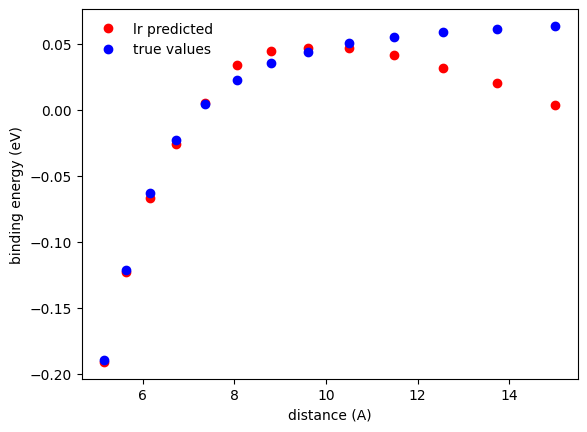
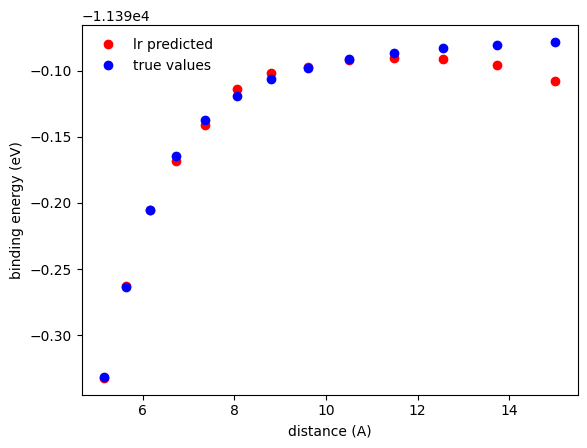
changes for linear readout and prints

diff --git a/mace/mace/modules/ewald_mace.py b/mace/mace/modules/ewald_mace.py
@@ -82,23 +82,22 @@ class EwaldPotential(nn.Module):
 
             real_attention_weights = torch.real(attention_weights)
             # attention_weights = attention_weights / torch.sqrt(torch.tensor(k_pot.shape[1], dtype=torch.float))
-            print("i:", i, "torch.isfinite(attention_weights).all():", torch.isfinite(attention_weights).all(), "torch.isnan(attention_weights).any():", torch.isnan(attention_weights).all(), "min. {:.5f}, max. {:.5f}".format(attention_weights.real.min(), attention_weights.real.max()))
-            
-            attention_weights = torch.softmax(torch.real(attention_weights), dim=1)
-            # attention_weights = attention_weights.unsqueeze(-1)
-            # value_expanded = v_pot.unsqueeze(0)
-            # print("expanded vectors:", attention_weights.shape, value_expanded.shape)
-            # weighted_values = torch.sum(attention_weights * value_expanded, dim=1)
-            weighted_values = attention_weights[:, :, None] * v_pot[None, :, :]
+            print("i:", i, "torch.isfinite(attention_weights).all():", torch.isfinite(attention_weights).all(), "torch.isnan(attention_weights).any():", 
+            torch.isnan(attention_weights).all(), "min. {:.5f}, max. {:.5f}".format(attention_weights.real.min(), attention_weights.real.max()))
+
+            max_values, _ = torch.max(real_attention_weights, dim=-1, keepdim=True)
+            shifted_attention_weights = real_attention_weights - max_values
+
+            softmax_attention_weights = torch.softmax(shifted_attention_weights, dim=-1)
+            print("i:", i, "torch.isfinite(softmax_attention_weights).all():", torch.isfinite(softmax_attention_weights).all(), "torch.isnan(softmax_attention_weights).any():", torch.isnan(softmax_attention_weights).all(), "min. {:.5f}, max. {:.5f}".format(softmax_attention_weights.real.min(), softmax_attention_weights.real.max()))
+            print("attention_weights after softmax:", attention_weights.shape, max_values.shape, shifted_attention_weights.shape)
+
+            weighted_values = softmax_attention_weights[:, :, None] * v_pot[None, :, :]
             print("weighted_values:", weighted_values.shape)
             print("i:", i, "torch.isfinite(weighted_values).all():", torch.isfinite(weighted_values).all(), "torch.isnan(weighted_values).any():", torch.isnan(weighted_values).all(), "min. {:.5f}, max. {:.5f}".format(weighted_values.real.min(), weighted_values.real.max()))
             real_space_weighted_values = self.compute_inverse_transform_optimized(r[mask], weighted_values, box[i])
             print("i:", i, "torch.isfinite(real_space_weighted_values).all():", torch.isfinite(real_space_weighted_values).all(), "torch.isnan(real_space_weighted_values).any():", torch.isnan(real_space_weighted_values).all(), "min. {:.5f}, max. {:.5f}".format(real_space_weighted_values.real.min(), real_space_weighted_values.real.max()))
-            # for inver_ind in range(weighted_values.shape[0]):
-                # real_space_weighted_values = self.compute_inverse_transform_optimized(r[mask][inver_ind], weighted_values[inver_ind], box[i])
-                # real_space_weighted_values = self.compute_inverse_transform(r[mask][inver_ind], weighted_values[inver_ind], box[i])
-            # attention_list = torch.stack(attention_list)
-            # attention_list = torch.transpose(attention_list, 0, 1)
+
             print("node_feats_list:", weighted_values.shape, real_space_weighted_values.shape)
             results.append(torch.real(real_space_weighted_values))
 
@@ -107,9 +106,6 @@ class EwaldPotential(nn.Module):
         return results
 
     def compute_potential(self, r_raw, q, box, value):
-        print("i:", i, "torch.isfinite(attention_weights).all():", torch.isfinite(attention_weights).all(), "torch.isnan(attention_weights).any():", torch.isnan(attention_weights).all(), "min. {:.5f}, max. {:.5f}".format(attention_weights.real.min(), attention_weights.real.max()))
-
-        """ Compute the Ewald long-range potential for one configuration """
         dtype = torch.complex64 if r_raw.dtype == torch.float32 else torch.complex128
         device = r_raw.device
 

diff --git a/mace/mace/modules/models.py b/mace/mace/modules/models.py
@@ -459,37 +459,13 @@ class MACE(torch.nn.Module):
 
             # if i == num_interactions - 2:
             print("in the linear readout block", hidden_irreps_out, MLP_irreps, len(heads))
-            self.ewald_nonlinear_readout = NonLinearReadoutBlock(
-                            hidden_irreps_out,
-                            o3.Irreps("256x0e"),
-                            gate,
-                            o3.Irreps("256x0e"), #change size of head 
-                            len(heads),
-                        )
+            self.ewald_readout = LinearReadoutBlock(o3.Irreps("256x0e"), o3.Irreps("256x0e"))     
             
-            self.q_nonlinear_readout = NonLinearReadoutBlock(
-                            o3.Irreps("256x0e"),
-                            (len(heads) * MLP_irreps).simplify(),
-                            gate,
-                            o3.Irreps("256x0e"), #change size of head 
-                            len(heads),
-                        )
+            self.q_readout = LinearReadoutBlock(o3.Irreps("256x0e"), o3.Irreps("256x0e"))     
 
-            self.v_nonlinear_readout = NonLinearReadoutBlock(
-                            o3.Irreps("256x0e"),
-                            (len(heads) * MLP_irreps).simplify(),
-                            gate,
-                            o3.Irreps("256x0e"), #change size of head 
-                            len(heads),
-                        )
+            self.v_readout = LinearReadoutBlock(o3.Irreps("256x0e"), o3.Irreps("256x0e"))     
 
-            self.k_nonlinear_readout = NonLinearReadoutBlock(
-                            o3.Irreps("256x0e"),
-                            (len(heads) * MLP_irreps).simplify(),
-                            gate,
-                            o3.Irreps("256x0e"), #change size of head 
-                            len(heads),
-                        )       
+            self.k_readout = LinearReadoutBlock(o3.Irreps("256x0e"), o3.Irreps("256x0e"))     
            
         self.ewald_potential = EwaldPotential()
 
@@ -608,16 +584,16 @@ class MACE(torch.nn.Module):
         node_feats_out = torch.cat(node_feats_list, dim=-1)
         logging.info(f"node_feats_out:{node_feats.shape}, {node_feats_out[-1].shape}, {len(node_feats_out)}")
         
-        linear_node_feats = self.ewald_nonlinear_readout(node_feats)
+        linear_node_feats = self.ewald_readout(node_feats)
         logging.info(f"linear_node_feats: {linear_node_feats.shape}")
         
-        q_node_feats = self.q_nonlinear_readout(linear_node_feats)
+        q_node_feats = self.q_readout(linear_node_feats)
         logging.info(f"q_node_feats: {q_node_feats.shape}")
         
-        v_node_feats = self.v_nonlinear_readout(linear_node_feats)
+        v_node_feats = self.v_readout(linear_node_feats)
         logging.info(f"v_node_feats: {v_node_feats.shape}")
         
-        k_node_feats = self.k_nonlinear_readout(linear_node_feats)
+        k_node_feats = self.k_readout(linear_node_feats)
         logging.info(f"k_node_feats: {k_node_feats.shape}")
         
         long_range_embedding = self.ewald_potential(q_node_feats, v_node_feats, k_node_feats, data)

diff --git a/mace/plot_binding_curve.py b/mace/plot_binding_curve.py
@@ -64,6 +64,7 @@ for i in range(len(all_list)):
     true_forces.append(all_list[i].get_forces().reshape(num_atoms_per_snapshot*3,))
 
 ground_state = avge0[1] * 10 + avge0[6] * 4 + avge0[7] * 2 + avge0[8] * 2
+print("ground state energies:", avge0)
 
 pred_energy, pred_forces = [], []
 calculator = MACECalculator(model_paths='./checkpoints/dimer-'+dimer_type+'-lr-remove-adjusted-mace_run-123_stagetwo.model', device='cuda')
@@ -81,8 +82,8 @@ for i in range(len(all_list)):
 # sr_pred_force = np.load("sr_pred_force_6_A.npy")
 
 plt.figure()
-plt.plot(distance_current, pred_energy-ground_state, 'ro', label='lr predicted')
-plt.plot(distance_current, true_energy-ground_state, 'bo', label='true values')
+plt.plot(distance_current, pred_energy, 'ro', label='lr predicted')
+plt.plot(distance_current, true_energy, 'bo', label='true values')
 # plt.plot(distance_current, sr_pred_energy-ground_state, 'ko', label='sr predicted')
 plt.legend(frameon=False)
 plt.xlabel('distance (A)')
